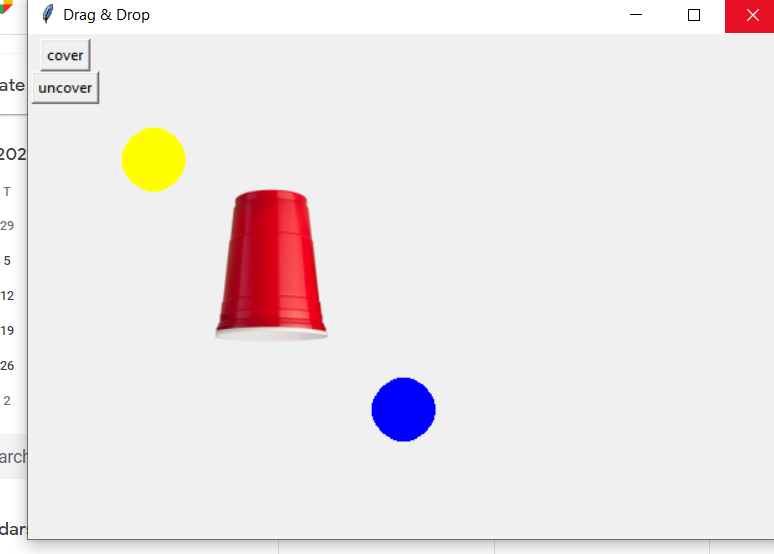
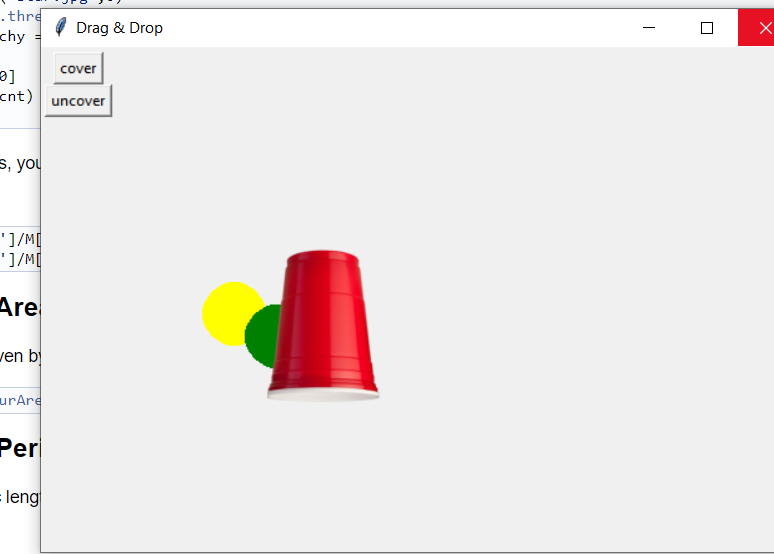
added occlusion tracking limit

Changed region(s): [[0.0, 0.0, 1.0, 1.0], [0.2481, 0.3375, 0.5891, 0.7978], [0.155, 0.2148, 0.2481, 0.3682]]

diff --git a/tracking_multiple.py b/tracking_multiple.py
@@ -104,25 +104,29 @@ def task(prev_time, error_cov, count, x):
     result = cv2.bitwise_or(cv2.bitwise_or(cv2.bitwise_or(mask_blue, mask_green), mask_yellow), mask_red)
 
     masks=[mask_blue, mask_green, mask_yellow, mask_red]
+
     colors=["Blue", "Green", "Yellow", "Red"]
     for i in range(len(masks)):
         M=cv2.moments(masks[i])
-        if M["m00"]!=0:
-            cX = int(M["m10"] / M["m00"])
-            cY = int(M["m01"] / M["m00"])
+        contours,hierarchy = cv2.findContours(masks[i].copy(), 1, 2)
+        if len(contours)!=0:
+            area=cv2.contourArea(contours[0])
+            if M["m00"]!=0 and (area>1500 or area==0):
+                cX = int(M["m10"] / M["m00"])
+                cY = int(M["m01"] / M["m00"])
 
-            meas[i].append((cX,cY))
-            mp = [cX,cY]
-            filterstep=time.time()-prev_time
-            prev_time=time.time()
+                meas[i].append((cX,cY))
+                mp = [cX,cY]
+                filterstep=time.time()-prev_time
+                prev_time=time.time()
 
-            x[i], error_cov[i] = ekf(mp, x[i], filterstep, error_cov[i], count)
-            pred[i].append((int(x[i][0]),int(x[i][1])))
-            paint(i)
+                x[i], error_cov[i] = ekf(mp, x[i], filterstep, error_cov[i], count)
+                pred[i].append((int(x[i][0]),int(x[i][1])))
+                paint(i)
 
-            # F = multivariate_normal(np.array(x[i]), error_cov[i])
-            # Z = F.pdf(pos)
-            # plt.contourf(X, Y, Z, cmap=cm.viridis)
+                # F = multivariate_normal(np.array(x[i]), error_cov[i])
+                # Z = F.pdf(pos)
+                # plt.contourf(X, Y, Z, cmap=cm.viridis)
     plt.show(block=False)
 
     cv2.imshow("kalman",frame_kalman)
